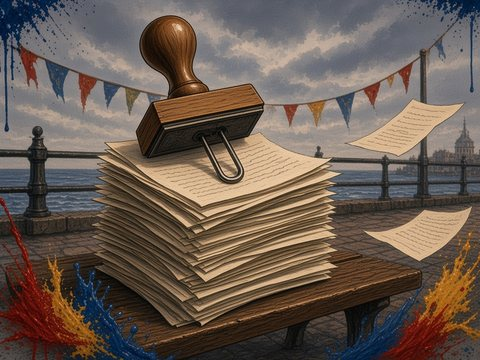
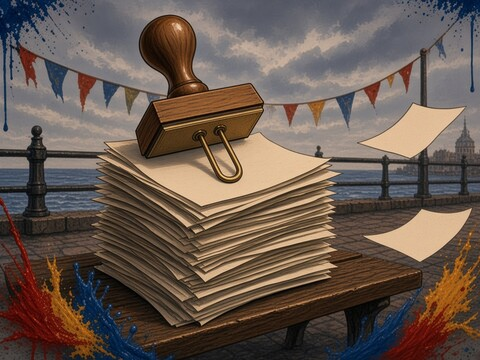
Swap in seven v2 card paintings.
Nobody Minuted It, Wrong House, Mysterious Parcel, Catchphrase, Form 27B, Imaginary Invoice and Two-Page Spread now use their v2 art. The previous shipping images are kept as mockups/<id>-v1-rejected.jpg. README and THIRD_PARTY_NOTICES are updated. No new generations.

diff --git a/desktop/seen-off/README.md b/desktop/seen-off/README.md
@@ -424,6 +424,7 @@ crops in `web/cards/` (`junk`, `sock`, `ticket`, `wblock`, `photo`, `catchp`).
 - `web/cards/flick.jpg`, `bivvy.jpg`, `castout.jpg`, `didnt.jpg`: AI-generated (28 Nov 2026) from the same portrait and our card style (Flick, Bivvy, Cast Out, and the legendary The One That Didn't Get Away). One generation each, no retry. Wordless; no logos, no other people (a seagull is in Flick).
 - `web/cards/six.jpg`, `hairrig.jpg`, `bite.jpg`, `feeder.jpg`, `bait.jpg`, `unhook.jpg`, `wrongpeg.jpg`, `khandle.jpg`, `nobite.jpg`, `twentyp.jpg`, `gotaway.jpg`, `keepnet.jpg`, `greatmorn.jpg`, `nightfish.jpg`, `weighin.jpg`: AI-generated (28 Nov 2026) from the same portrait and our card style, completing the Ferret's fifteen reward cards. One generation each, except Not a Bite (one retry: the first attempt had a bent rod, as if there was a bite) and Weigh-In (one retry: the first attempt had numerals on the scale dial). Wordless; the shipping Weigh-In scale is a blank disc with a needle only. No logos, no other people.
 - `web/cards/plusone.jpg`: repainted 28 Nov 2026 from Kenneth's portrait. The first version (kept as `mockups/plusone-v1-rejected.jpg`) had two solid Kennys. The shipping image has one solid Kenneth in front and a faint, translucent double behind, with the promenade showing through. One generation, no retry. Wordless.
+- `web/cards/nominute.jpg`, `wronghouse.jpg`, `parcel.jpg`, `catchp.jpg`, `junk.jpg`, `invoice.jpg`, `layout.jpg`: repainted 28 Nov 2026 (v2 candidates, now shipping). Previous shipping images kept as `mockups/<id>-v1-rejected.jpg`. Nobody Minuted It: Kenneth at a night desk, no glowing rectangle (one retry; the first try still painted the glow). Wrong House and Mysterious Parcel: lantern lettering on the first try was painted out by hand to a blank gallery band (unretouched gens kept). Catchphrase: the empty speech bubble was dropped. Form 27B and Imaginary Invoice: papers and the scroll are blank. Two-Page Spread: the open book pages are paint only, no typography. Wordless; no other people, no money, no trade marks.
 
 - `web/postcards/prom.jpg`, `beach.jpg`, `rock.jpg`, `south.jpg`, `park.jpg`, `tower.jpg`, `central.jpg`, `chippy.jpg`, `arcades.jpg`, `north.jpg`, `lights.jpg`, `winter.jpg`, `bnb.jpg`, `oldpier.jpg`: AI-generated (28 Nov 2026) painted postcard fronts in our card style, one per place. Wordless paintings (no titles, signs, ride names or trade marks); "Greetings from" and the place name are real HTML/CSS text in the album. One generation each; park, arcades, South Pier and North Pier each had one retry (garbled lettering or tiny background figures). South Pier mid-ground figures on the retry were further softened by hand and logged. No people in the other thirteen. The Tower and North Pier lanterns are blank or a plain glow, with no lettering.
 - `web/cats/*.jpg` (all six cat signature cards): crops of the cat card mockups in `../mockups/card-*.jpg`, which **were AI-generated**
@@ -448,7 +449,7 @@ Starter deck: 4x Flick, 4x Bivvy, 1x Cast Out. His reward pool is the rest of th
 
 ### Painted card art
 
-Every shipping card now has painted art, including the Ferret's full set (starters, fifteen reward cards and his legendary, finished 28 Nov 2026) and the Plus One redo of the same day. All painted card art is pre-generated AI content (see the list above).
+Every shipping card now has painted art, including the Ferret's full set (starters, fifteen reward cards and his legendary, finished 28 Nov 2026), the Plus One redo of the same day, and the seven v2 swaps of 28 Nov 2026 (Nobody Minuted It, Wrong House, Mysterious Parcel, Catchphrase, Form 27B, Imaginary Invoice, Two-Page Spread). All painted card art is pre-generated AI content (see the list above).
 
 ## What the desktop bundle changes
 

diff --git a/desktop/seen-off/THIRD_PARTY_NOTICES.md b/desktop/seen-off/THIRD_PARTY_NOTICES.md
@@ -2,7 +2,7 @@
 
 Everything in the game (art, music, sound, text) is drawn or generated in code by William George Works,
 except the bundled fonts below, the painted card art, the Ferret's pick-screen portrait in `web/heroes/`, and the fourteen painted postcard fronts in `web/postcards/`. The card art is Reggie's, Terry's and Kenneth's starter-, common-, uncommon-, rare-, unlock- and legendary-card art, the Ferret's starter cards (Flick, Bivvy, Cast Out), fifteen reward cards and legendary (The One That Didn't Get Away), and the shared/clutter card images in `web/cards/` including Handout, No Hot Food in Rooms, Groan, Condemned and Wet Sand (AI-generated
-pre-release, the hero cards from their portraits, the shared cards as prop still-lifes with no people; the Ferret's portrait, starter cards, fifteen reward cards and legendary 28 Nov 2026 from Terry's illustrated portrait of the Ferret on williamgeorgeworks.co.uk; Plus One repainted 28 Nov 2026 from Kenneth's portrait with a translucent double; Bankrupt, Magnum Opus and The Cloud Provides 28 Nov 2026, the four new clutter cards and Handout 28 Nov 2026, previous shared batch 27 Nov 2026; Kenneth's redone 24 Nov 2026 from the portrait Ben supplied). The six cat card images in `web/cats/` are crops of the cat card mockups in `mockups/`, also AI-generated from the
+pre-release, the hero cards from their portraits, the shared cards as prop still-lifes with no people; the Ferret's portrait, starter cards, fifteen reward cards and legendary 28 Nov 2026 from Terry's illustrated portrait of the Ferret on williamgeorgeworks.co.uk; Plus One repainted 28 Nov 2026 from Kenneth's portrait with a translucent double; Nobody Minuted It, Wrong House, Mysterious Parcel, Catchphrase, Form 27B, Imaginary Invoice and Two-Page Spread repainted 28 Nov 2026 (v2 candidates now shipping, previous images kept as mockups/<id>-v1-rejected.jpg); Bankrupt, Magnum Opus and The Cloud Provides 28 Nov 2026, the four new clutter cards and Handout 28 Nov 2026, previous shared batch 27 Nov 2026; Kenneth's redone 24 Nov 2026 from the portrait Ben supplied). The six cat card images in `web/cats/` are crops of the cat card mockups in `mockups/`, also AI-generated from the
 cats' real photos. The postcard fronts (`web/postcards/*.jpg`, one per place, 28 Nov 2026) are AI-generated paintings in the same style; titles are real HTML text, not letters in the image. All of it is pre-generated AI content and must be declared in Steam's Content Survey:
 
 | Font | Files | Licence | Copyright |
